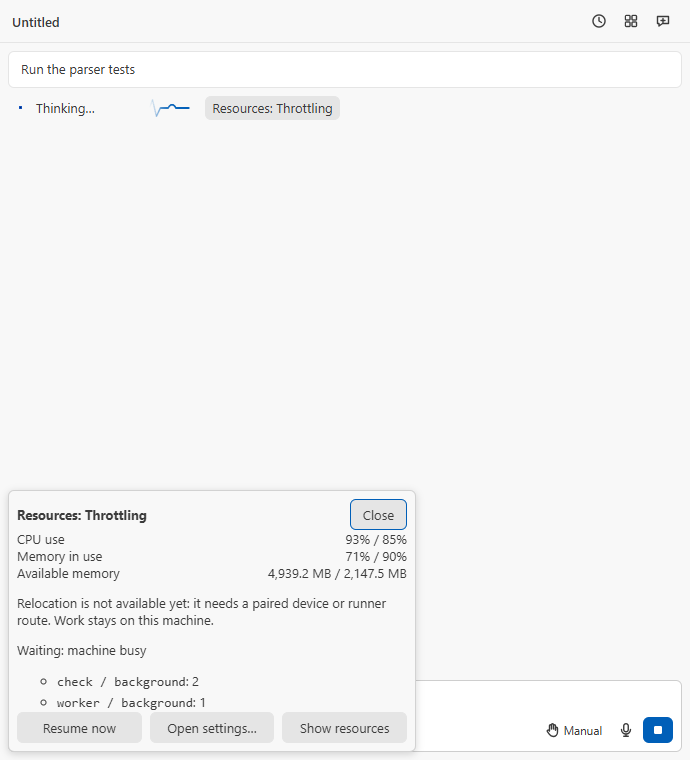
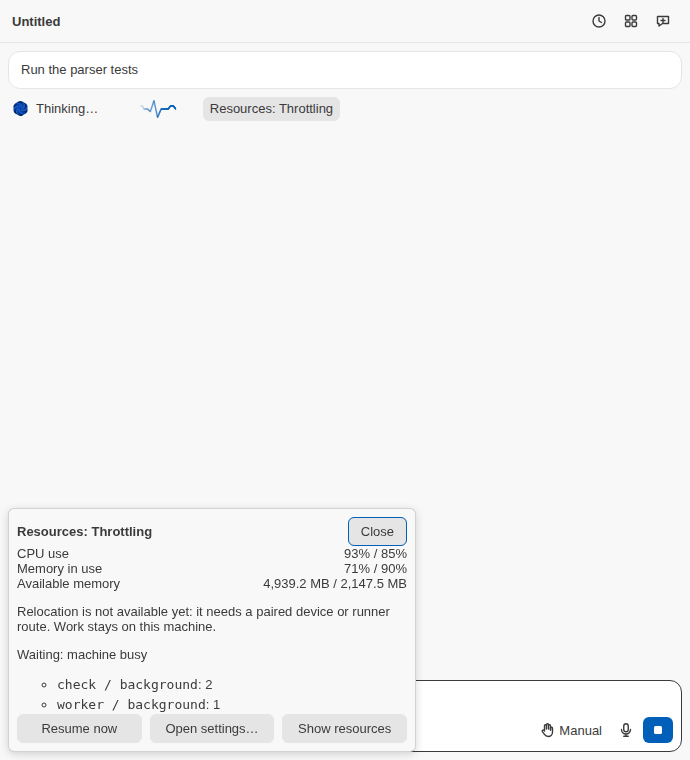
docs(readme): recapture the README set; replace only resources.png
The readmeShots pixel-input digest tripped on input changes since the last
recapture. The one-command script ran on the Linux laptop rig with the same
Chrome 153.0.8010.52 the committed set was reviewed with (a Windows capture
swaps every font). Every image was compared by decoded pixels and each
changed region viewed:

- 10 byte-identical;
- agents, approval, turn, open-question, question: heartbeat animation
  frame (plus 2 anti-aliasing px in question); quote, rewind: capture
  clock time; deterministic-report: printed report hash. Kept as committed.
- resources: the set's only Windows capture (fe34f6509, Segoe UI, no turn
  spinner); same content, now in the set's renderer. Replaced.

Digest refreshed to b1d68ff9...5b62; readmeShots 17/17; curated media
1,176,937 / 2,097,152 bytes. Rig results for the hook test added to the
record.

diff --git a/docs/certification/rel017ci.md b/docs/certification/rel017ci.md
@@ -64,7 +64,7 @@ timing.
 | vault/channel                                                                               | win      | b          | File-wide beforeAll compiled peer.c with /usr/bin/cc.                                                                                              | `9f3648dfb`. Win11, Kubuntu pass.                                                                                          |
 | nativeScheduleBackground (drop-in)                                                          | lin      | c          | Hosted node lives in world-writable /opt/hostedtoolcache.                                                                                          | `0a2950ef5` (private node copy). Kubuntu pass.                                                                             |
 | treesMacNative, treesLifecycleNative                                                        | mac      | b          | Fixture copied 4 files; build.sh now needs the whole folder, l10n tables and node.                                                                 | `95467436b`+`b3faeb8a5`. Hosted macOS to confirm.                                                                          |
-| readmeShots (pixel-input digest)                                                            | all      | **open**   | Pixel inputs changed after the last recapture (and harnessServer.mjs again here).                                                                  | Release-prep: `npm run harness:shots`, review, refresh the digest.                                                         |
+| readmeShots (pixel-input digest)                                                            | all      | b          | Pixel inputs changed after the last recapture (and harnessServer.mjs again here).                                                                  | UIHOOK017 below: recaptured and reviewed; resources.png replaced, digest refreshed.                                        |
 | resourceHistoryDisposal                                                                     | —        | c          | Load-sensitive 3 s wait (lead's note).                                                                                                             | Kubuntu pass (4.9 s run); not changed.                                                                                     |
 | visualStability                                                                             | lin, mac | c          | Capture hook over 10 s on hosted runners.                                                                                                          | Not changed.                                                                                                               |
 | nativeScheduleBackground (timeout), scheduleFs, judgeWindow, vault/execFence, reportHistory | win      | c          | Hosted Windows timing (PowerShell cold start, 15/30 s deadlines), Windows rename locking; judgeWindow and execFence pass on Win11.                 | Not changed; hosted Windows to confirm.                                                                                    |
@@ -159,7 +159,8 @@ installs the hooks with the real installer into a throwaway repository under
 of Git's stderr, writes again and exits 1 must leave no commit and a non-zero
 exit; a passing hook commits; the repository's own `.husky/pre-commit` under
 husky's bare stub is refused with the `npm run prepare` message. 3/3 on the
-host (2.7 s).
+host (2.7 s), on Kubuntu (585 ms) and on the Win11 VM (slowest case 2.5 s,
+under the 15 s Windows deadline).
 
 | Red drill                                         | Result                                                                    |
 | ------------------------------------------------- | ------------------------------------------------------------------------- |
@@ -209,6 +210,37 @@ unchanged.
 (72 ms, opacity 0.80) fails exactly the hosted case, `light dialog at
 320px`, `color-contrast` on `a` (1 failed, 33 passed). Restored: 34/34
 (32.5 s) on this Windows host.
+
+## UIHOOK017 — README screenshots (readmeShots digest)
+
+The committed set was reviewed as a Linux render (LEFT017, headless Chrome
+153.0.8010.52; `int0170-combined.md`). A capture on this Windows host
+changed all 19 images (Segoe UI instead of the set's fonts), so it was used
+for nothing. The capture of record ran the one-command script on the Linux
+laptop rig, which has that same Chrome 153.0.8010.52: `git archive` of
+`abc82f12f`, the gate base for this lockfile (`a8920e925b0d831f`)
+hard-linked, `npm run build:dev`, then
+`node scripts/readme-shots.mjs --out temp/readme-linux`. Each image was
+compared with the committed one by decoded pixels, and every changed region
+was viewed side by side, zoomed.
+
+| Image                                                                                     | Result                                                                                                                                                                                          | Kept         |
+| ----------------------------------------------------------------------------------------- | ----------------------------------------------------------------------------------------------------------------------------------------------------------------------------------------------- | ------------ |
+| help, history, languages, modes, paid, paid-always, palette, slash-commands, usage, voice | byte-identical                                                                                                                                                                                  | committed    |
+| agents, approval, turn                                                                    | 163–170 px in the animated heartbeat trace (its faded tail); capture-frame timing                                                                                                               | committed    |
+| open-question                                                                             | 229 px: the heartbeat caught at a flat frame; the committed frame shows the waveform                                                                                                            | committed    |
+| question                                                                                  | heartbeat frame plus two anti-aliasing pixels on the card's accent bar                                                                                                                          | committed    |
+| quote, rewind                                                                             | the message time is the capture's clock (6:19 AM / 6:20 AM against 10:42 PM)                                                                                                                    | committed    |
+| deterministic-report                                                                      | only the printed report SHA-256 differs                                                                                                                                                         | committed    |
+| resources                                                                                 | the committed image was the set's only Windows capture (`fe34f6509`, Segoe UI, a dot where the turn spinner goes); same content, labels and values; now in the set's fonts and with the spinner | **replaced** |
+
+`resources.png`: 27,518 → 37,156 bytes, SHA-256
[1 lines of base64/hex data omitted]
+Curated media total 1,176,937 / 2,097,152 bytes. No other image changed.
+None of the token, stylesheet or harness changes since the last recapture
+shows in a README scene. The pixel-input digest is refreshed to
[1 lines of base64/hex data omitted]
+`test/unit/readmeShots.test.mjs` 17/17.
 
 ## Needs the hosted run
 

diff --git a/CHANGELOG.md b/CHANGELOG.md
@@ -55,6 +55,9 @@ happened, not what was planned; superseded entries are kept.
 
 ### Changed
 
+- The README's Resources screenshot is retaken with the rest of the set (the
+  same Linux Chrome build and fonts); the other 18 screenshots still match the
+  current UI and are unchanged.
 - Preserve exact decimal USD across schedule authorization, consent and agent caps,
   rental cost estimates, reporting facts, account totals and voice consent. Read
   historical numeric records at validated boundaries; saved reports verify their
